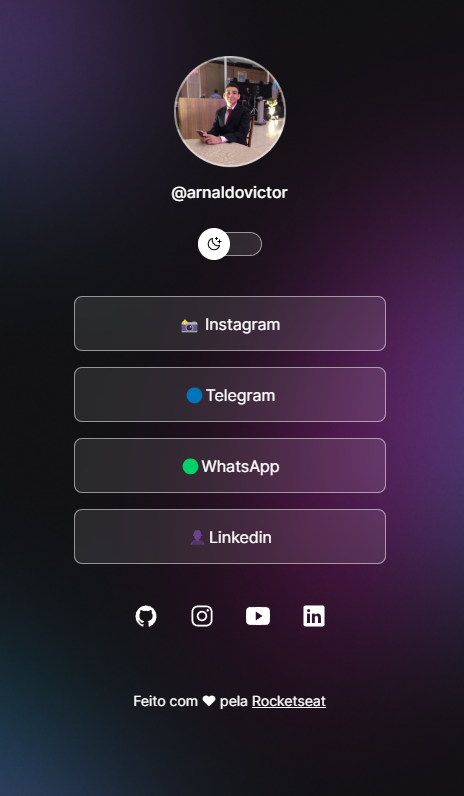
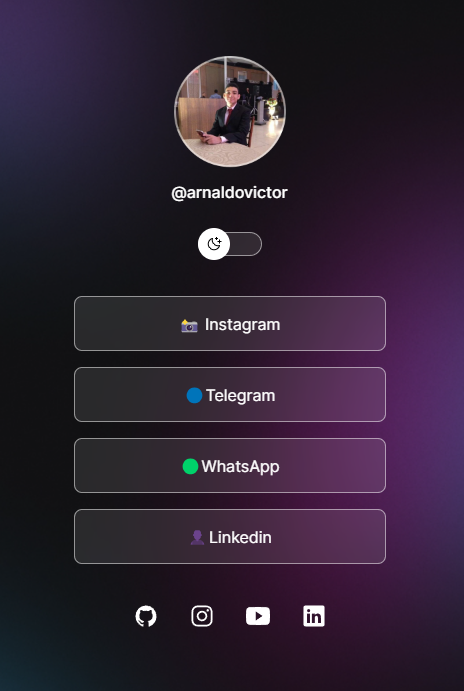
:books: docs: edit README.md

diff --git a/README.md b/README.md
@@ -40,7 +40,3 @@ Você pode visualizar o layout do projeto através [DESSE LINK](https://www.figm
 ## :memo: Licença
 
 Esse projeto está sob a licença MIT.
-
----
-
-Créditos  [RocketSeat](https://app.rocketseat.com.br)
